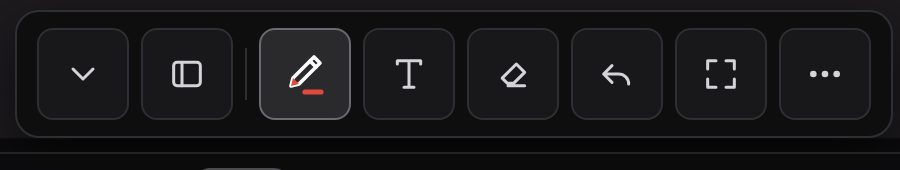
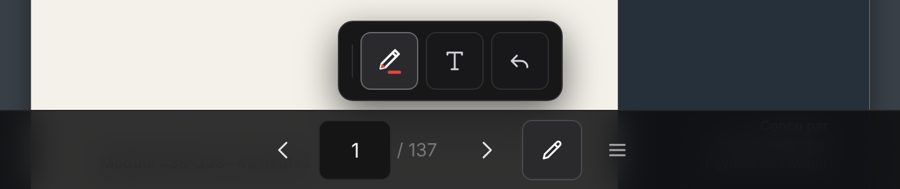
Version élève : barre réduite (crayon, texte, annuler)
Claude-Session: https://claude.ai/code/session_0132P7fSy2K8VC3HWdnHumMj

diff --git a/index.html b/index.html
@@ -8036,7 +8036,10 @@ window.addEventListener("online", () => { try { aviser("Internet est revenu."); 
   body.eleve #planBtn,body.eleve #accueilBtn,body.eleve #wbBtn,body.eleve #quoiNeuf,body.eleve #adminBtn,body.eleve .hero-tag,
   body.eleve #plusOv [data-plus="plans"],body.eleve #plusOv [data-plus="accueil"],body.eleve #plusOv [data-plus="wb"],
   body.eleve #tbAns,body.eleve #tbWb,body.eleve #tbTimer,body.eleve #tbSpot,body.eleve #tbCache,body.eleve #tbLaser,body.eleve #tbNoir,body.eleve #tbMark,body.eleve #tbPin,body.eleve #tbPrint,body.eleve #tbQr,
-  body.eleve #tdbPill,body.eleve #readerTdb,body.eleve #tbMore,body.eleve #tbHelp,body.eleve #penO,body.eleve #wbSch,body.eleve #objSch{display:none!important}
+  body.eleve #tdbPill,body.eleve #readerTdb,body.eleve #tbMore,body.eleve #tbHelp,body.eleve #penO,body.eleve #wbSch,body.eleve #objSch,
+  /* barre simplifiée (29 oct., demande de Jeremy) : livre = flèches, page, crayon, table des matières; crayon = crayon, texte, annuler */
+  body.eleve #tbAnim,body.eleve #tbZo,body.eleve #tbZv,body.eleve #tbZi,body.eleve #tbDbl,body.eleve #tbFs,
+  body.eleve #penFold,body.eleve #penSide,body.eleve #penE,body.eleve #penFs,body.eleve #penPlus{display:none!important}
   /* outils réservés aux profs connectés (demande de Jeremy, 29 oct.) */
   body:not(.connecte) #planBtn,body:not(.connecte) #accueilBtn,body:not(.connecte) #wbBtn,
   body:not(.connecte) #plusOv [data-plus="plans"],body:not(.connecte) #plusOv [data-plus="accueil"],body:not(.connecte) #plusOv [data-plus="wb"]{display:none!important}

diff --git a/CLAUDE.md b/CLAUDE.md
@@ -115,7 +115,7 @@
 - **Fenêtres du compte habillées** (29 oct., « c'est fade ») : `marque(titre, sous)` = en-tête `.acces-marque` (logo Pavillon en blanc, dégradé rouge) pour Se connecter / Demander un accès / Mot de passe oublié; programmes en cartes `.acces-prog` avec icônes `ICO_PROG`; `succes(titre, html)` = écran `.acces-succes` (cercle vert tracé, remplissage, crochet, halo, 18 confettis `.conf`, texte qui monte; `prefers-reduced-motion` respecté) après l'envoi d'une demande.
 - **Finitions du 29 oct. (« go » de Jeremy)** : connexion réussie → `bienvenue(apres)` (initiales + cadenas vert qui s'ouvre, « Bonjour Prénom ! », N livres déverrouillés, se ferme seule en 1,9 s); publication du panneau → écran `succes('Publié !')` (Retour aux accès / Fermer); livre verrouillé → `.cadenas.secoue` 0,5 s puis connexion (`lire`); « Enregistrer ce tableau » (Mes schémas) → bouton vert `.fait` « Enregistré ! » 1,8 s; demandes en attente → pastille `.cloche` jaune qui sonne sur `#compteBtn` (dans `majBouton`, `compterDemandes` rappelle `majBouton`; remplace l'ancien contour rouge). Logos des programmes : `img/prog-egi.jpg`, `img/prog-plomberie.jpg` (`LOGO_PROG`, cartes de la demande). **Animations et Windows** : l'ordinateur de Jeremy a « Effets d'animation » désactivé → `prefers-reduced-motion` ; la règle globale `animation:none!important` (bloc `@media (prefers-reduced-motion:reduce)` vers la ligne 445) exclut ces éléments par `:not(...)`, sinon le crochet restait invisible. Toute nouvelle animation qui part d'un état invisible doit y être ajoutée.
 - **Mes préférences** (29 oct., demande de Jeremy : « plus de personnalisation pour les profs ») : script à la toute fin de `index.html`; menu du compte → « Mes préférences » (`window.dlgPrefs`, dans `#accesBox`, classe `.prefs`). Gardées par compte et par ordinateur : `localStorage["prefs:<id>"]` (`window.PREF()`). Réglages : `couleur` (→ `--moi` pastille des initiales + `--accent`), `theme` (clique `#themeBtn`), `bonjour` (`titreAccueil()` dans `renderHero` : « Bonjour Prénom ! »), `prog` (`filtreProg`, appliqué une fois par connexion), `reprise` demander/toujours/jamais (`offrirReprise`), `fond` et `crayon` du tableau blanc (`ouvrirTableauBlanc` : le dessin existant n'est jamais touché — on va sur la page affichée si elle est vide (`wbVide(n)` : aucun trait dans `INKS` pour `livre|wbN` ou `livre|wbN:fond`), sinon sur une autre page vide, sinon une nouvelle page à la fin (avis « Ton dessin d'avant est au tableau N »), avec le fond préféré; `wbNouveau` prend aussi le fond préféré. Les fonds sont gardés dans `tableauxSauves`, donc tester « vide », pas « fond absent »). `appliquerPrefs` est appelé par `majBouton` (connexion/déconnexion) et après `ACCES.pret`.
-- **Version élève (29 oct.)** : compte de **groupe** (`comptes[id].eleve = true`), créé par l'admin dans le panneau (section « Groupes d'élèves », `#grNom`/`#grMdp`/`.grProg` → `demande()` + `remplacerCompte(d)` avec `d.eleve`; mot de passe ≥ 6, choisi et donné par Jeremy; « Mot de passe » du groupe = même bouton que pour un prof, `remplacerCompte` garde `eleve`). `SESSION.eleve`, `ACCES.eleve`, `body.eleve` (dans `majBouton`). Mode élève : CSS `body.eleve …{display:none}` (outils de l'en-tête, Quoi de neuf, ⚙, `#tbAns`, `#tbWb`, outils de présentation, `#tbMore`, `#tbHelp`, `#tdbPill`, `#penO`, Mes schémas) → barre crayon = Crayon, Texte, Gomme, Annuler; `hostKey` avale r b e t l c o n k q; `answers()` ne fait rien; `verrouEleve(win, doc)` (appelé dans `attach` et `setupSecond`) enlève les classes de réponses (`answers`, `stepans`, `h-rep`, `h-pas`) par `MutationObserver` et bloque R dans le livre. Préférences : pas de section Tableau blanc; salutation « Bonjour, <nom du groupe> ! ». Réponses de l'élève : sur l'iPad (comme les traits du prof, `INKS` par page). Choix de Jeremy : iPad gardés par élève, pas de remise.
+- **Version élève (29 oct.)** : compte de **groupe** (`comptes[id].eleve = true`), créé par l'admin dans le panneau (section « Groupes d'élèves », `#grNom`/`#grMdp`/`.grProg` → `demande()` + `remplacerCompte(d)` avec `d.eleve`; mot de passe ≥ 6, choisi et donné par Jeremy; « Mot de passe » du groupe = même bouton que pour un prof, `remplacerCompte` garde `eleve`). `SESSION.eleve`, `ACCES.eleve`, `body.eleve` (dans `majBouton`). Mode élève : CSS `body.eleve …{display:none}` (outils de l'en-tête, Quoi de neuf, ⚙, `#tbAns`, `#tbWb`, outils de présentation, `#tbMore`, `#tbHelp`, `#tdbPill`, `#penO`, Mes schémas) → barre réduite (29 oct.) : livre = ‹ page › +  +  (cachés aussi , zoom , , ); crayon = , ,  (cachés , , , , ); `hostKey` avale r b e t l c o n k q; `answers()` ne fait rien; `verrouEleve(win, doc)` (appelé dans `attach` et `setupSecond`) enlève les classes de réponses (`answers`, `stepans`, `h-rep`, `h-pas`) par `MutationObserver` et bloque R dans le livre. Préférences : pas de section Tableau blanc; salutation « Bonjour, <nom du groupe> ! ». Réponses de l'élève : sur l'iPad (comme les traits du prof, `INKS` par page). Choix de Jeremy : iPad gardés par élève, pas de remise.
 - **Texte sur les lignes des livres** (29 oct., profs et élèves) : outil Texte, simple toucher dans un livre (pas le tableau blanc) → `ligneDuLivre(X, Y)` cherche sous le doigt, dans la page du livre (cadre gauche ou droit), une bordure du bas (`.line`, `.ligne-rep`, `.blank`, `.lines i`…) ou des lignes répétées en fond (`repeating-linear-gradient` / `background-size`, `.lines`, `.fill`) — sans connaître les classes; interligne = écart avec la ligne sœur suivante ou la période du fond; `ouvrirTexte(..., lv)` : case alignée sur la ligne (largeur de la ligne, police ≈ 0,62 × interligne), texte enregistré avec `lig:true` et `s.lh` (interligne en fraction de la hauteur; rendu et `mesurerTexte` l'utilisent). Testé : communiquer, protection incendie, micro-ordinateur.
 - **Accès rapide au tableau blanc** : `#wbBtn` dans l'en-tête (a remplacé « A+ »; `#grosBtn` reste caché, utilisé par le menu Plus du cellulaire) → `ouvrirTableauBlanc()`.
   Sur `accueil.html` : `#b-wb` (touche B, visible seulement dans la bibliothèque) envoie `accueil-ouvrir {type:"tableau"}`; si le tableau blanc est déjà ouvert dessous, on y revient (`ouvrirDepuisTdb`), et `#b-wb` est caché au profit de « Revenir au tableau blanc ».
